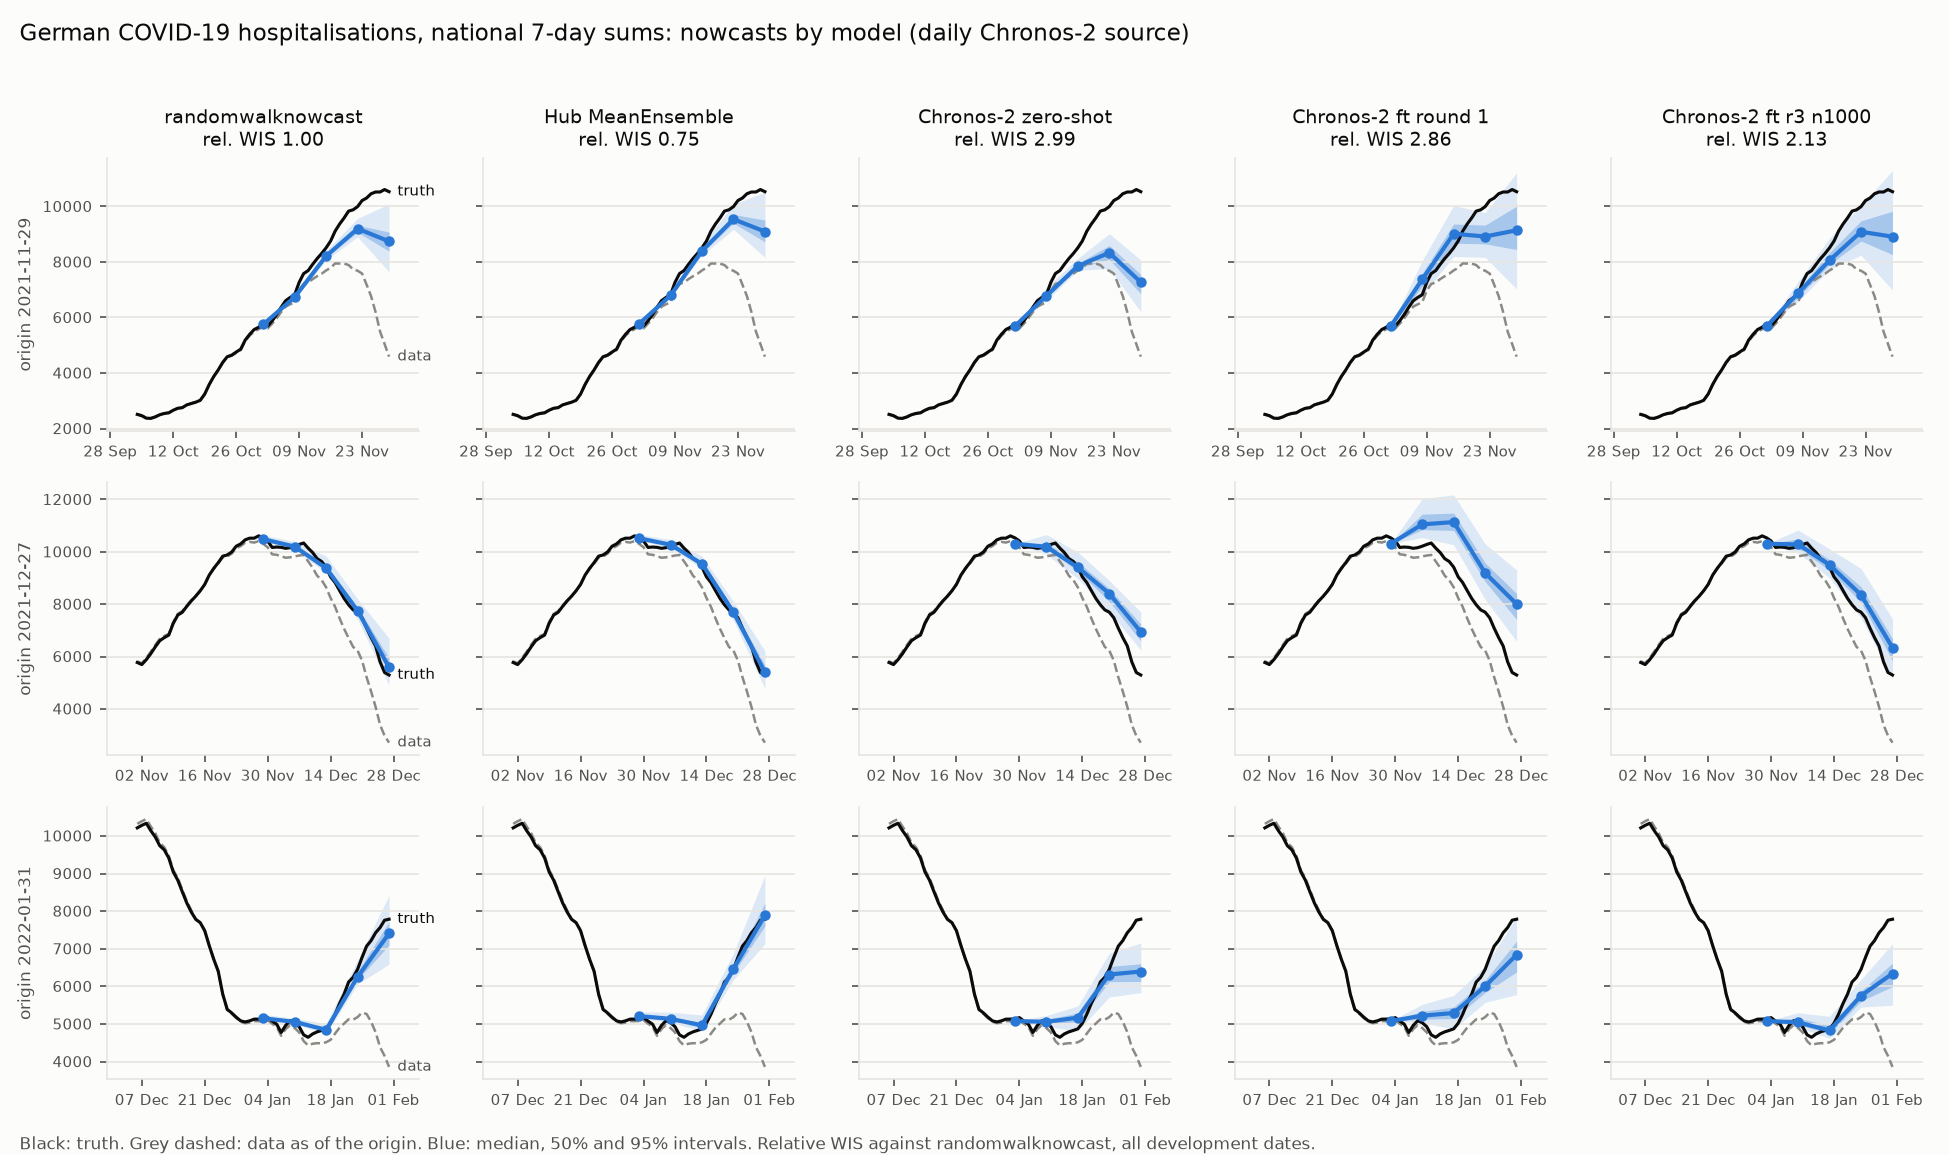
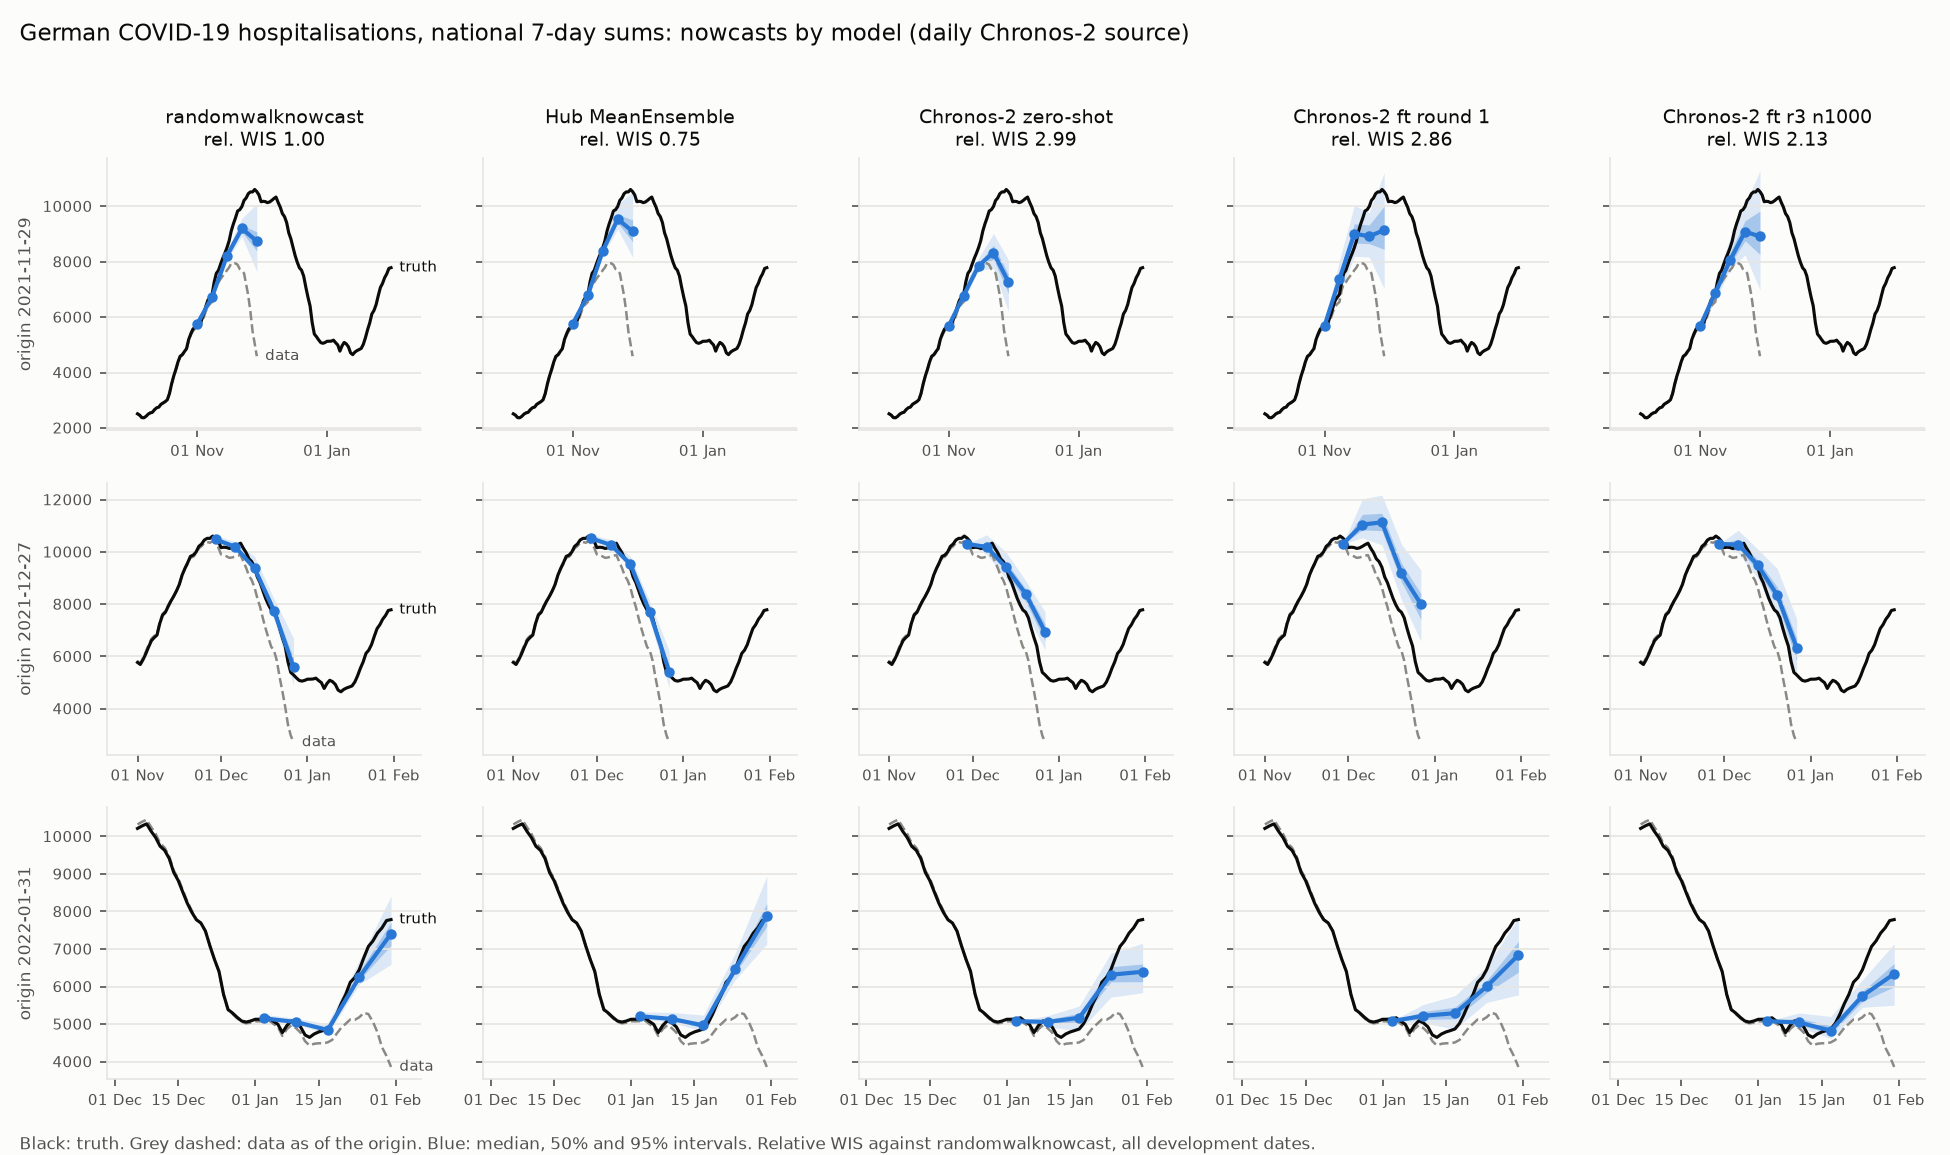
evidence: BDBV province nowcast panels, one per model

diff --git a/scripts/bdbv_panels.py b/scripts/bdbv_panels.py
@@ -1,0 +1,127 @@
+"""BDBV province nowcast panels, one per model (`nowcast_panels`).
+
+Usage: python scripts/bdbv_panels.py DATA ZERO R1 CHECKPOINTS R1_SCORES OUT
+
+DATA is the tidy data (`target.csv`). ZERO holds the release backtest's
+`forecasts.csv.gz` with randomwalknowcast and the zero-shot daily ragged
+model, R1 the round 1 fine-tuned model's, and CHECKPOINTS
+`<hash>/forecasts.csv.gz` per r3 checkpoint (`evidence/checkpoints.csv`).
+R1_SCORES is the round 1 release backtest's `nowcast-scores.csv`, for
+its relative WIS on the cells of `evidence/checkpoint-scores.csv`.
+
+The panels are at origin 2026-10-17, the one origin with a scored week,
+for the three provinces with most cases by then. The black line is the
+latest release's count, as most weeks have no 35-day truth yet.
+"""
+
+from __future__ import annotations
+
+import sys
+from pathlib import Path
+
+import pandas as pd
+
+sys.path.insert(0, str(Path(__file__).parent))
+from nowcast_panels import draw_panels
+
+ORIGIN = "2026-10-17"
+LEVELS = (0.025, 0.25, 0.5, 0.75, 0.975)
+DAILY = "fm_chronos_daily_ragged"
+BASELINE = "randomwalknowcast"
+
+
+def _quantiles(samples: pd.DataFrame, model: str) -> pd.DataFrame:
+    """Return a model's sample quantiles at `LEVELS` by origin and week."""
+    rows = samples.loc[
+        (samples["model"] == model) & (samples["vintage"] == ORIGIN)
+    ]
+    keys = ["vintage", "location", "target_end_date"]
+    q = rows.groupby(keys)["value"].quantile(list(LEVELS)).reset_index()
+    return q.rename(columns={"vintage": "origin", "level_3": "quantile"})
+
+
+def _r1_rel(scores: Path, cells: pd.DataFrame) -> float:
+    """Return round 1's province relative WIS on the matched cells."""
+    s = pd.read_csv(scores)
+    s = s.loc[(s["target"] == "complete") & (s["location"] != "CD")]
+    keys = ["origin", "truth_vintage", "location", "target_end_date"]
+    s = s.merge(cells, on=keys)
+    s = s.loc[s["model"].isin([f"{DAILY}_ft", BASELINE])]
+    both = s.groupby(keys)["model"].nunique()
+    s = s.set_index(keys).loc[both.index[both == 2]].reset_index()
+    wis = s.groupby("model")["wis"].mean()
+    return float(wis[f"{DAILY}_ft"] / wis[BASELINE])
+
+
+def main() -> None:
+    """Draw the BDBV province panels."""
+    data, zero, r1, ckpts, r1_scores, out = map(Path, sys.argv[1:7])
+    target = pd.read_csv(data / "target.csv", dtype={"kind": str})
+    real = target.loc[target["kind"] == "real"]
+    latest = real["vintage"].max()
+    at = real.loc[(real["vintage"] == ORIGIN) & (real["location"] != "CD")]
+    places = at.groupby("location")["total"].sum().nlargest(3).index.tolist()
+    zs = pd.read_csv(zero / "forecasts.csv.gz")
+    models = {
+        BASELINE: _quantiles(zs, BASELINE),
+        "Chronos-2 zero-shot": _quantiles(zs, DAILY),
+        "Chronos-2 ft round 1": _quantiles(
+            pd.read_csv(r1 / "forecasts.csv.gz"), f"{DAILY}_ft"
+        ),
+    }
+    curve = pd.read_csv("evidence/checkpoint-scores.csv")
+    curve = curve.loc[
+        (curve["study"] == "ebola")
+        & (curve["level"] == "provinces")
+        & (curve["model"] == DAILY)
+    ].set_index("checkpoint")
+    zero_scores = pd.read_csv(zero / "nowcast-scores.csv")
+    cells = zero_scores.loc[
+        (zero_scores["model"] == BASELINE)
+        & (zero_scores["target"] == "complete")
+        & (zero_scores["location"] != "CD")
+        & (zero_scores["origin"] == ORIGIN),
+        ["origin", "truth_vintage", "location", "target_end_date"],
+    ]
+    scored = {
+        BASELINE: 1.0,
+        "Chronos-2 zero-shot": curve.loc["zero-shot", "rel_wis"],
+        "Chronos-2 ft round 1": _r1_rel(r1_scores, cells),
+    }
+    checkpoints = pd.read_csv("evidence/checkpoints.csv", dtype=str)
+    for ckpt, outbreaks in checkpoints.itertuples(index=False):
+        path = ckpts / ckpt / "forecasts.csv.gz"
+        if not path.exists() or ckpt not in curve.index:
+            continue
+        label = f"Chronos-2 ft r3 n{outbreaks}"
+        models[label] = _quantiles(pd.read_csv(path), f"{DAILY}_ft")
+        scored[label] = curve.loc[ckpt, "rel_wis"]
+    weeks = sorted(set(real.loc[real["vintage"] == ORIGIN, "target_end_date"]))
+    weeks = weeks[-10:]
+    asof = real.loc[
+        (real["vintage"] == ORIGIN) & real["target_end_date"].isin(weeks),
+        ["vintage", "location", "target_end_date", "total"],
+    ].rename(columns={"vintage": "origin"})
+    truth = real.loc[
+        (real["vintage"] == latest) & (real["target_end_date"] >= weeks[0]),
+        ["location", "target_end_date", "total"],
+    ].rename(columns={"total": "truth"})
+    names = dict(zip(at["location"], at["location_name"], strict=False))
+    draw_panels(
+        models,
+        scored,
+        truth,
+        asof,
+        [(ORIGIN, p, f"{names.get(p, p)} ({p})") for p in places],
+        f"BDBV weekly cases, three provinces with most cases: nowcasts at "
+        f"origin {ORIGIN} by model (daily Chronos-2 source)",
+        out,
+        truth_label=f"latest release ({latest})",
+        truth_short="latest",
+        scored_on="the 26 province weeks with a 35-day truth (origin "
+        f"{ORIGIN})",
+    )
+
+
+if __name__ == "__main__":
+    main()

diff --git a/scripts/nowcast_panels.py b/scripts/nowcast_panels.py
@@ -1,4 +1,4 @@
-"""Small-multiple nowcast panels: one column per model, one row per origin.
+"""Small-multiple nowcast panels: one column per model, one row per panel.
 
 Every panel shows the same truth (black) and the data as of the origin
 (grey, dashed), and one model's median with its 50% and 95% intervals,
@@ -42,12 +42,14 @@ def draw_panels(
     rel_wis: Mapping[str, float],
     truth: pd.DataFrame,
     asof: pd.DataFrame,
-    origins: Sequence[str],
-    place: str,
+    rows: Sequence[tuple[str, str, str]],
     title: str,
     out: Path,
+    truth_label: str = "truth",
+    truth_short: str = "truth",
+    scored_on: str = "all development dates",
 ) -> None:
-    """Draw one column per model and one row per origin into `out`.
+    """Draw one column per model and one row per (origin, place) into `out`.
 
     Parameters
     ----------
@@ -62,30 +64,34 @@ def draw_panels(
     asof : pandas.DataFrame
         `origin`, `location`, `target_end_date`, `total`: the data as each
         origin saw them.
-    origins : sequence of str
-        The rows.
-    place : str
-        The location drawn.
+    rows : sequence of (str, str, str)
+        Each row's origin, location and label.
     title, out
         Figure title and file.
+    truth_label : str
+        What the black line is, for the caption.
+    truth_short : str
+        The black line's label in the first column.
+    scored_on : str
+        The cells the relative WIS is on, for the caption.
     """
     labels = list(models)
     fig, axes = plt.subplots(
-        len(origins),
+        len(rows),
         len(labels),
-        figsize=(2.6 * len(labels), 2.3 * len(origins) + 0.8),
+        figsize=(2.6 * len(labels), 2.3 * len(rows) + 0.8),
         sharey="row",
         squeeze=False,
         facecolor=SURFACE,
     )
-    for i, origin in enumerate(origins):
+    for i, (origin, place, row_label) in enumerate(rows):
         seen = asof.loc[
             (asof["origin"] == origin) & (asof["location"] == place)
         ].sort_values("target_end_date")
         x_seen = pd.to_datetime(seen["target_end_date"])
         tr = truth.loc[
             (truth["location"] == place)
-            & truth["target_end_date"].isin(seen["target_end_date"])
+            & (truth["target_end_date"] >= seen["target_end_date"].min())
         ].sort_values("target_end_date")
         x_tr = pd.to_datetime(tr["target_end_date"])
         for j, label in enumerate(labels):
@@ -131,17 +137,19 @@ def draw_panels(
                 ax.spines[side].set_color(GRID)
             ax.tick_params(colors=TEXT, labelsize=7)
             ax.margins(x=0.12)
-            ax.xaxis.set_major_locator(mdates.WeekdayLocator(interval=2))
+            ax.xaxis.set_major_locator(
+                mdates.AutoDateLocator(minticks=3, maxticks=4)
+            )
             ax.xaxis.set_major_formatter(mdates.DateFormatter("%d %b"))
             if i == 0:
                 score = rel_wis.get(label)
                 sub = "" if score is None else f"\nrel. WIS {score:.2f}"
                 ax.set_title(label + sub, fontsize=9, color=TRUTH)
             if j == 0:
-                ax.set_ylabel(f"origin {origin}", fontsize=8, color=TEXT)
+                ax.set_ylabel(row_label, fontsize=8, color=TEXT)
                 if len(x_tr):
                     ax.annotate(
-                        "truth",
+                        truth_short,
                         (x_tr.iloc[-1], tr["truth"].iloc[-1]),
                         xytext=(4, 0),
                         va="center",
@@ -163,9 +171,10 @@ def draw_panels(
     fig.text(
         0.01,
         0.005,
-        "Black: truth. Grey dashed: data as of the origin. Blue: median, "
-        "50% and 95% intervals. Relative WIS against randomwalknowcast, "
-        "all development dates.",
+        f"Black: {truth_label}. Grey dashed: data as of the origin. "
+        "Blue: median, 50% and 95% intervals. Relative WIS against "
+        "randomwalknowcast, "
+        f"{scored_on}.",
         fontsize=8,
         color=TEXT,
     )

diff --git a/scripts/germany_panels.py b/scripts/germany_panels.py
@@ -82,8 +82,7 @@ def main(results: Path, ckpt_dir: Path, out: Path) -> None:
         scored,
         truth,
         asof,
-        ORIGINS,
-        PLACE,
+        [(o, PLACE, f"origin {o}") for o in ORIGINS],
         "German COVID-19 hospitalisations, national 7-day sums: nowcasts "
         "by model (daily Chronos-2 source)",
         out,
